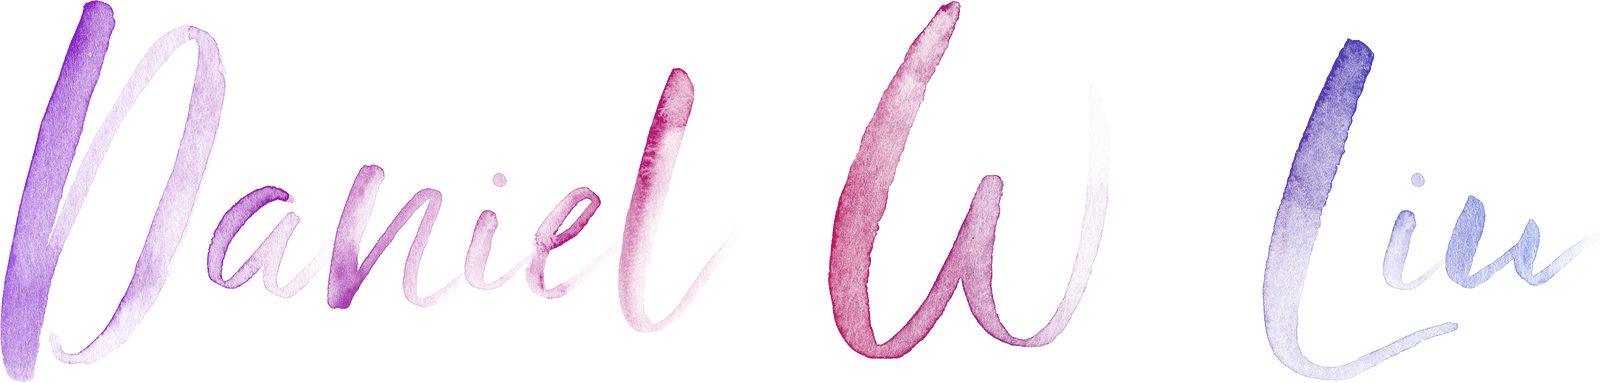
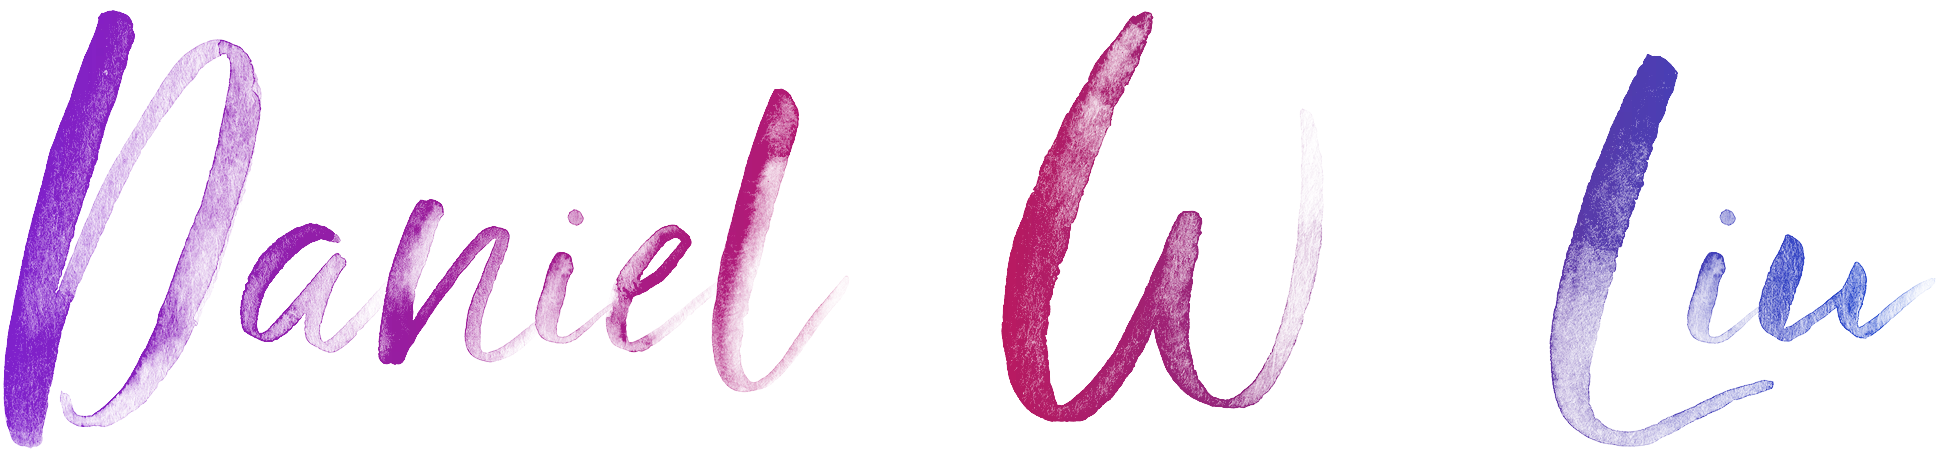
fix: regenerate KatieRoze images with all glyphs and vibrant colors
Fix missing letters (a,c,e,i,n,o,u,y) caused by accented characters
sharing glyph IDs and overwriting base letter mappings. Boost gradient
color saturation for visibility.

diff --git a/app/about/page.tsx b/app/about/page.tsx
@@ -61,16 +61,16 @@ export default function About() {
               <Image
                 src="/about/images/katie_daniel_w_liu.webp"
                 alt="Daniel W Liu"
-                width={1600}
-                height={383}
+                width={1946}
+                height={459}
                 className="w-[280px] min-[460px]:w-[420px] min-[1038px]:w-[360px] xl:w-[420px] h-auto drop-shadow-[0_2px_4px_rgba(0,0,0,0.3)]"
                 priority
               />
               <Image
                 src="/about/images/katie_subtitle.webp"
                 alt="Software Engineer & ML Developer"
-                width={2400}
-                height={271}
+                width={3297}
+                height={377}
                 className="w-[320px] min-[460px]:w-[450px] min-[1038px]:w-[400px] xl:w-[450px] h-auto drop-shadow-[0_2px_4px_rgba(0,0,0,0.3)]"
                 priority
               />

diff --git a/components/about/tech-stack.tsx b/components/about/tech-stack.tsx
@@ -9,8 +9,8 @@ export function TechStack() {
       <Image
         src="/about/images/katie_tech_stack.webp"
         alt="Tech Stack"
-        width={1000}
-        height={312}
+        width={1474}
+        height={461}
         className="w-[200px] min-[1038px]:w-[220px] xl:w-[250px] h-auto drop-shadow-[0_2px_4px_rgba(0,0,0,0.3)] py-2"
       />
 
